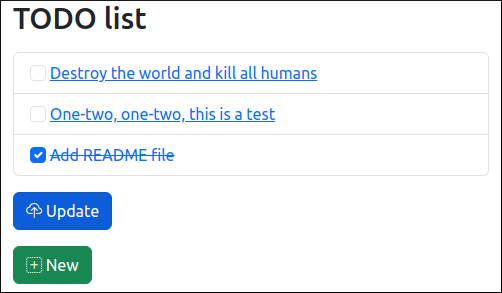
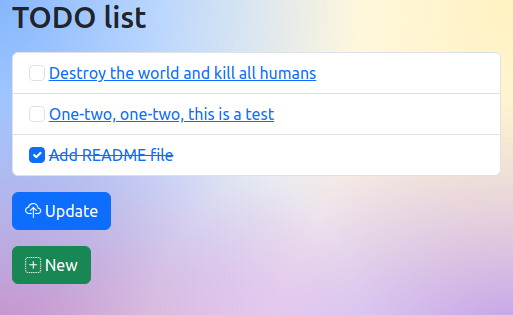
improve: add gradient

diff --git a/todo_website/todo_crud/templates/todo_crud/base.html b/todo_website/todo_crud/templates/todo_crud/base.html
@@ -8,10 +8,21 @@
         <link rel="stylesheet" href="{% static 'todo_crud/bootstrap.min.css' %}">
         <link rel="stylesheet" href="{% static 'todo_crud/bootstrap-icons.css' %}">
         <style>
-            {% block style %}
-            .done {
-                text-decoration: line-through;
+            body {
+                --bs-body-bg-rgb: 13,110,253;
+                --bd-accent-rgb: 255,228,132;
+                --bd-violet-rgb: 112.520718,44.062154,249.437846;
+                --bd-pink-rgb: 214,51,132;
+
+                background-image:
+                    radial-gradient(ellipse at top left, rgba(var(--bs-primary-rgb), 0.5), transparent 50%),
+                    radial-gradient(ellipse at top right, rgba(var(--bd-accent-rgb), 0.5), transparent 50%),
+                    radial-gradient(ellipse at center right, rgba(var(--bd-violet-rgb), 0.5), transparent 50%),
+                    radial-gradient(ellipse at center left, rgba(var(--bd-pink-rgb), 0.5), transparent 50%);
+                background-attachment: fixed;
             }
+
+            {% block style %}
             {% endblock %}
         </style>
     </head>
